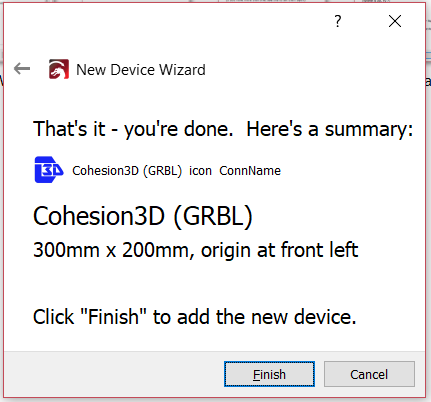
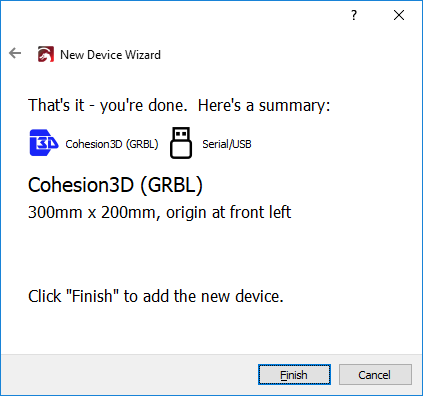
Documentation tweaks
- Added notes to Mac/OSX installation
- Fixed a couple screenshots in the Device Wizard page
- Fixed the Import button icon (white background)
- Added some detail / wording in Machine Instructions
- Added some notes to PreReq page

diff --git a/PreReq.md b/PreReq.md
@@ -7,23 +7,21 @@ No specific requirements, it is best to download the trial version to see if it 
 
 ## Supported Laser Hardware Controllers
 
-Ruida RDC6244G/S
-Cohesion Mini or Remix
-Smoothieboard
-Gerbil
-GRBL
-(AWC708 support will be added after initial release)
+- Ruida RDC6442G/S, RDC63344, LightObject R5-DSP
+- Smoothieboard (including Cohesion3D Mini and Remix)
+- GRBL and GRBL-LPC (Including Gerbil, X-Controller, and others)
+
+(AWC708 support may be added after initial release, depending on difficulty)
 New controllers added regularly, if your controller is not listed, please
-contact the developers at developer@lightburn.com
+contact the developers at lightburnsoftware@gmail.com
 
 
 ## Licensing
-There will be a 30 day free trial with no restrictions on the software.
-The trial version will work with all the hardware
-that LightBurn supports.
+There is a 30 day free trial with no restrictions on the software.
+The trial version will work with all supported hardware.
 
-Once the trial expires, you will need to purchase a version for your hardware: The normal version for GCode based machines, or the Pro version for Ruida DSP controllers. The pro version will include additional hardware DSPs as those come online, and will include the Gcode back ends as well. 
-		
+Once the trial expires, you will need to purchase a version for your hardware: The standard version for GCode based machines, or the Pro version for Ruida DSP controllers. The pro version will include additional hardware DSPs as those come online, and will include the Gcode back ends as well, however that is currently the only difference.
+
 -----------------------------------------------------------
 
 ### GRBL or Smoothie: $30 one-time purchase fee
@@ -31,16 +29,9 @@ Once the trial expires, you will need to purchase a version for your hardware: T
 
 -----------------------------------------------------------
 
-Both include all published updates and bug fixes for a year. After that first
-year, the software will keep working as is, but won't be eligible for further
-updates. If you want additional updates beyond the first year, a small
-(probably $20) renewal fee will get you another year.
-Regardless of whether you decide to update or not, the version you have
-will keep working forever.
-You can install the product on up to two machines at a time, so people with
-Mac/PC setups, or a PC in the house and one in the shop will
-be covered. Licenses can be transferred between machines if you get a new
-PC.
+Both include all published updates and bug fixes for a year. After that first year, the software will keep working as is, but won't be eligible for further updates. If you want additional updates beyond the first year, a small (probably $20) renewal fee will get you another year. Regardless of whether you decide to update or not, the version you have will keep working forever.
+
+You can install the product on up to two machines at a time, so people with Mac/PC setups, or a PC in the house and one in the shop will be covered. Licenses can be transferred between machines if you get a new PC.
 
 --------------------------------------------------------------------------
 

diff --git a/MachineInstructions.md b/MachineInstructions.md
@@ -7,16 +7,16 @@ Generating a file of machine instructions is automatic.  The type of file will d
 
 Drawing in a layer or importing a vector file will automatically generate the instructions based on the settings for that layer. 
 
-Importing an image will automatically generate raster scan for the image
+Importing an image will automatically generate a raster scan path for the image.
 
 ## Saving and Importing Instructions
 ![Laser Module](/img/LaserModule.PNG)
 
-You can save the instruction file that was generated by clicking on the Save button. Save G-Code or Save RD File depending on your selected device. This will prompt you for a location to save the generated file for review.
+You can save the instruction file that was generated by clicking on the Save button. Save G-Code or Save RD File depending on your selected device. This will prompt you for a location to save the generated file for review.  LightBurn can also send a file to store on the device for running later by clicking the Send button. This is currently only supported on Ruida controllers, but will be expanded to include Smoothieboard support in the future.
 
-You can import a previously generated instruction files by clicking on the appropriate Run button. Run G-Code or Run RD File again depending on your selected device. 
+You can import a previously generated instruction files by clicking on the appropriate Run button. Run G-Code or Run RD File again depending on your selected device.
 
 ## G-Code Console
-For devices that are capable, a G-Code console may be availble to you. This will allow you to directly input and execute g-code commands. Enter a g-code command in the text box and pressing return will send it to the connected device.
+For devices that are capable, a G-Code console may be available to you. This will allow you to directly input and execute g-code commands. Enter a g-code command in the text box and pressing return will send it to the connected device.
 
 ![Console Tab](/img/Console.png)

diff --git a/ImportingExternalVectors.md b/ImportingExternalVectors.md
@@ -8,8 +8,15 @@ LightBurn supports the following external vector file formats
 * .dxf - Drawing Exchange Format
 * .svg - Scalable Vector Graphics
 
-These files can be added either by clicking the Import button ![Import Button](/img/ImportButton.PNG) on the toolbar and selecting the file you want or by drag and dropping the file into the work area.
+These files can be added either by using the File -> Import option in the main menu, clicking the Import button ![Import Button](/img/ImportButton.PNG) on the toolbar, or dragging the file into the work area.
+
+When using drag & drop to import a file, the content of the file is placed exactly at the mouse location when you release the button.  If using the menu item or import button, the file is placed in the center of the work area.  If you want the file to drop to the same location it exists in the source document, hold the Shift key when you import.
+
+Please note that each of these file formats is incredibly complex, and it's not feasible to support every option available in the packages used to create them.
 
 
 ## Importing Files with Layers and Colors
-TO-DO: add details about layer and color handling. Currently on hold pending further development
+When importing, LightBurn assigns a different cut layer to each unique color it encounters in the source file, either fill or stroke.  If a shape is assigned both fill and stroke colors, the stroke color takes precedence.
+
+LightBurn currently does not match colors being imported to its internal palette, though this is planned for future development.
+

diff --git a/Installation.md b/Installation.md
@@ -7,12 +7,25 @@ Download the latest release version that matches your computer.
 * Windows 32-bit
 * Mac OSX
 
-## Install
+## Windows Installation
 ![LightBurn Setup](/img/Setup-1.png)
 
 1. Launch the installer executable
-2. Select if you would like to create a desktop icon
-3. Click *Install*
-4. Click *Finish*
+2. Windows may ask if you trust the software, as LightBurn is not currently digitally signed
+3. Select if you would like to create a desktop icon
+4. Click *Install*
+5. Click *Finish*
 
 That's it! Locate the LightBurn icon to launch the program
+
+
+
+## Mac/OSX Installation
+
+1. Download the Mac/OSX version
+2. Double-click the .zip file to extract the DMG (disk-image) file
+3. Double-click the LightBurn.dmg file to mount it
+4. Drag the LightBurn application into your applications folder
+5. Launch LightBurn from the launcher as normal
+6. You can now eject the DMG file (drag it to the trash bin)
+

diff --git a/DeviceWizard.md b/DeviceWizard.md
@@ -6,13 +6,13 @@ If you've never run LightBurn, the first thing you need to do is set up your mac
 ## Adding a new device (Laser)
 If you've never used LightBurn before, you'll need to tell it a couple things about your hardware to get going.
 
-1. In the lower-right of the display is a box called "Laser" - on the bottom is a button called "Devices". Click it.
+1. In the lower-right of the display is a box called "Laser" - on the bottom of it is a button called "Devices". Click it.
 
-![Laser Module](/img/LaserModule.PNG)
+![Laser Module](/img/LaserToolBox.PNG)
 
-2. Click the *New Device* button
+2. Click the *New Device* button (highlighted in red, below):
 
-![Device Wizard Main](/img/DeviceWizardMain.PNG)
+![Device Wizard Empty](/img/DeviceWizardEmpty.PNG)
 
 3. Choose a device that matches the one in your laser. Don't worry if you have more than one laser. Start with one for now, and add the others later.
 

diff --git a/Operations.md b/Operations.md
@@ -38,7 +38,7 @@ This can be used to choose the opration for the layer. Cut, Scan and Scan+Cut
 
 ------------------
 ## Cut
-Cut will trace the laser along the vector path. Depending on the power and feed rate settings, this can be used to cut through a material in single or multiple passes. Decreasing the power and/or increasing the speed can also allow you to engrave rather than cut. 
+Cut will trace the laser along the vector path. Depending on the power and feed rate settings, this can be used to cut through a material in single or multiple passes. Decreasing the power and/or increasing the speed can also allow you to simply mark the surface (engraving).
 
 ### Cut Settings
 
